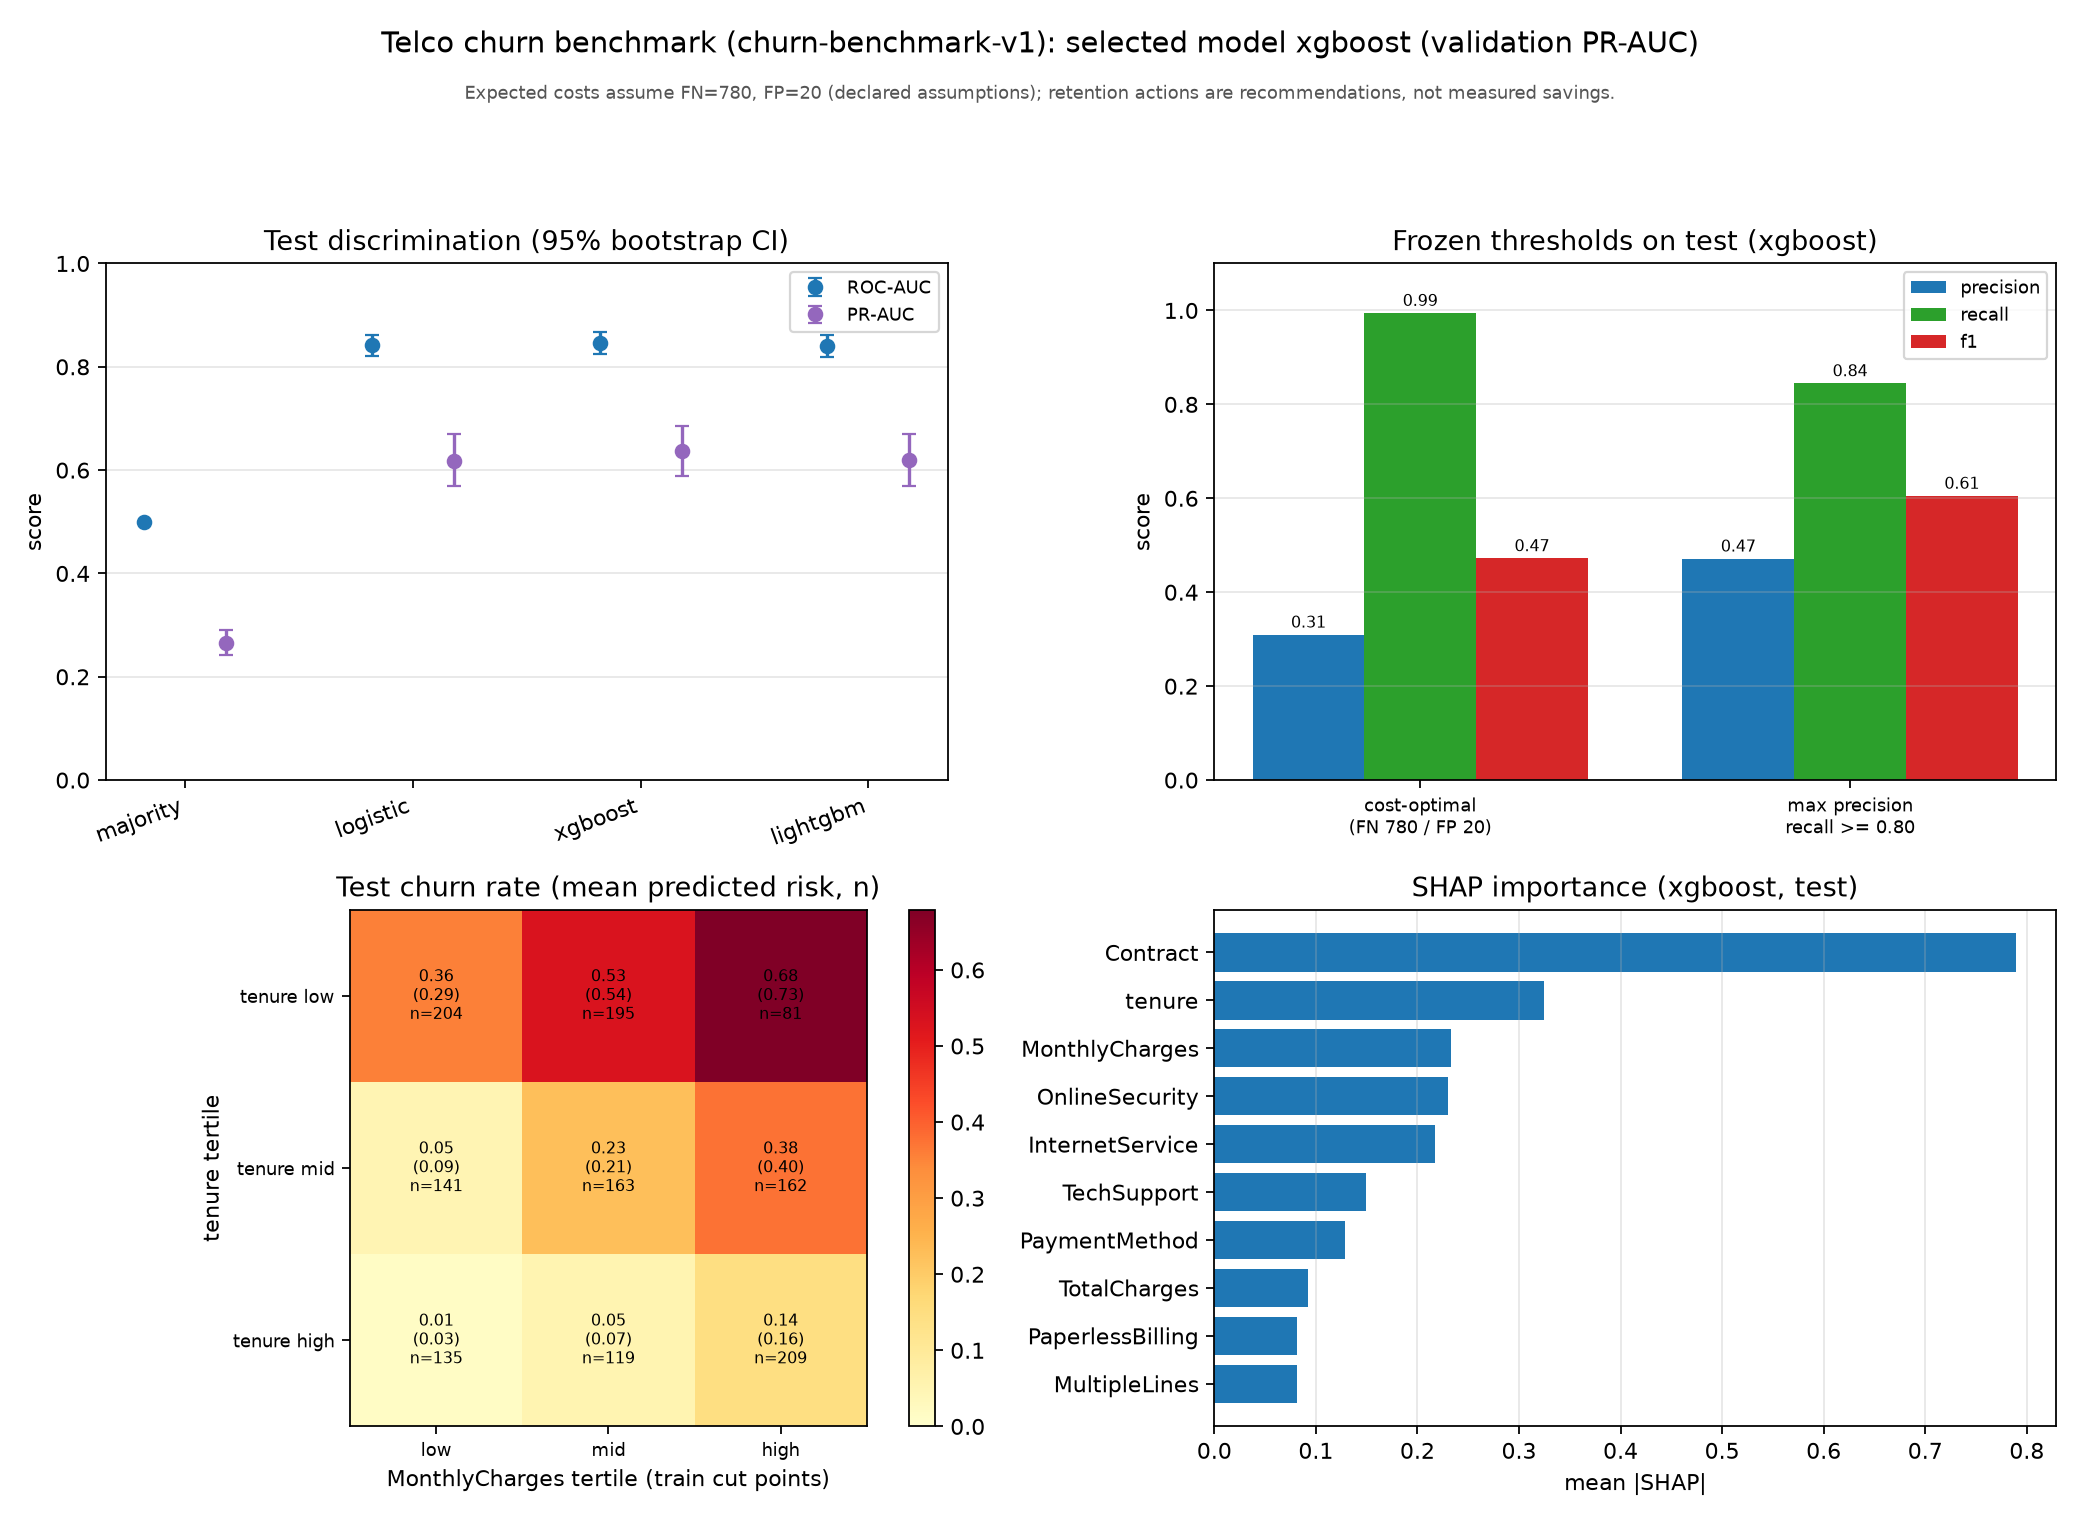
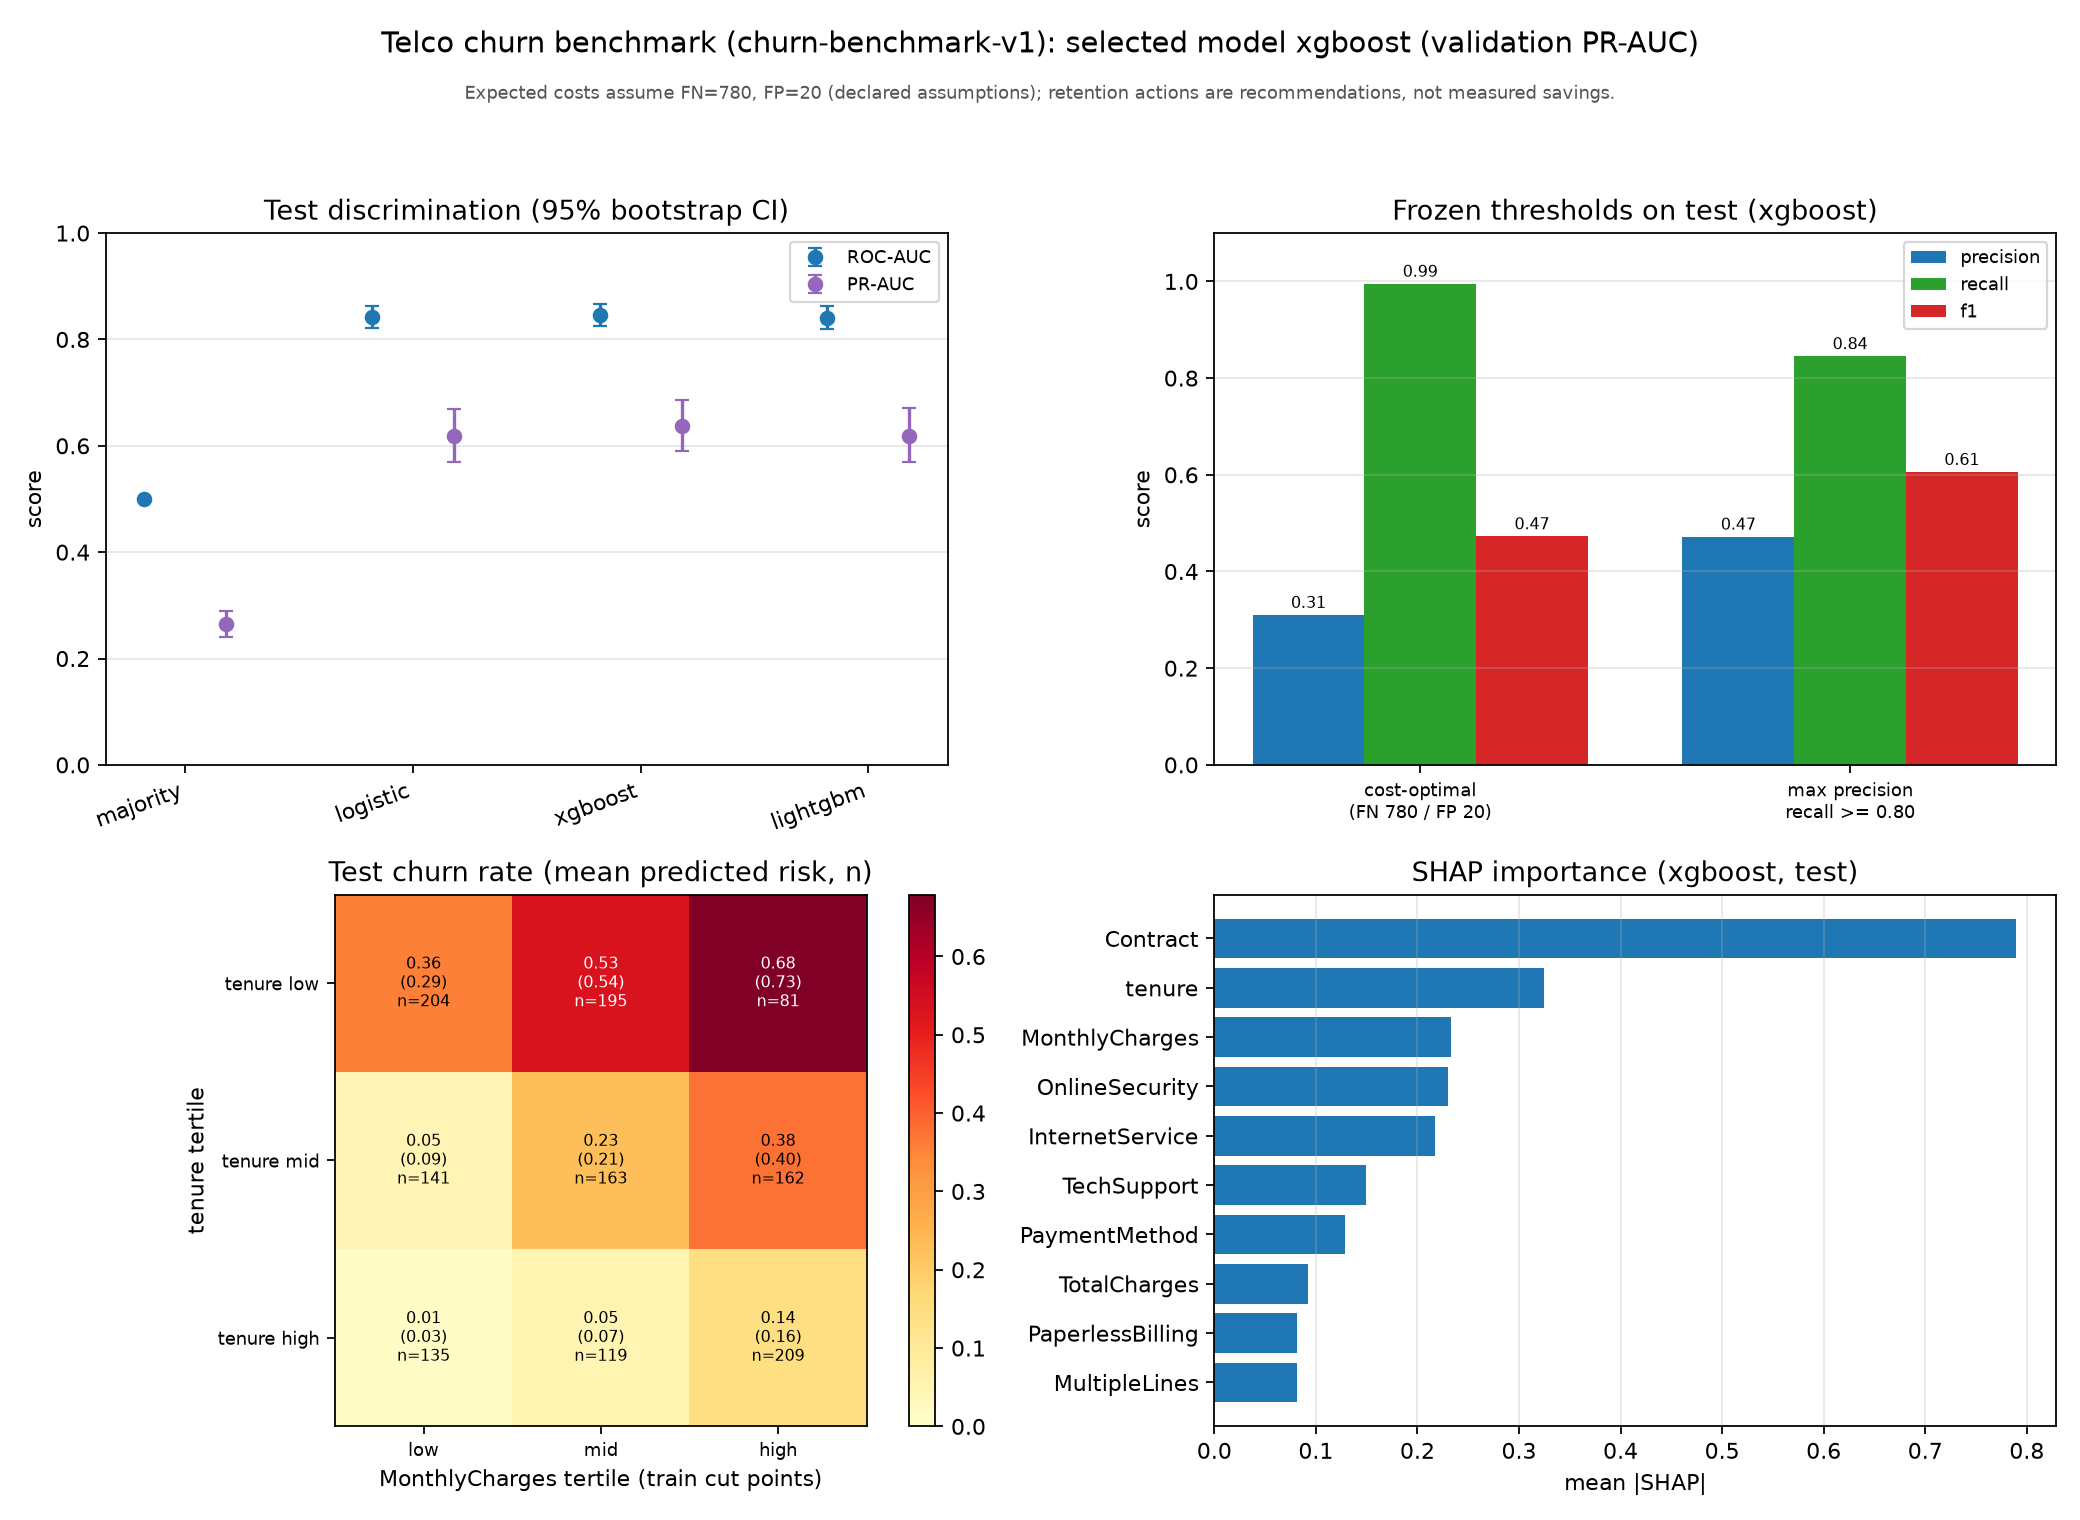
chore(figure): use white labels on dark heatmap cells

diff --git a/scripts/render_figure.py b/scripts/render_figure.py
@@ -135,13 +135,15 @@ def main() -> None:
         grid[i, j] = row["churn_rate"]
         risk[i, j] = row["mean_predicted_risk"]
         counts[i, j] = row["n"]
-    im = ax.imshow(grid, cmap="YlOrRd", vmin=0.0, vmax=max(0.5, float(np.nanmax(grid))))
+    vmax = max(0.5, float(np.nanmax(grid)))
+    im = ax.imshow(grid, cmap="YlOrRd", vmin=0.0, vmax=vmax)
     for i in range(grid.shape[0]):
         for j in range(grid.shape[1]):
             ax.text(
                 j, i,
                 f"{grid[i, j]:.2f}\n({risk[i, j]:.2f})\nn={counts[i, j]}",
                 ha="center", va="center", fontsize=7,
+                color="white" if grid[i, j] > 0.6 * vmax else "black",
             )
     ax.set_xticks(range(len(charge_lv)))
     ax.set_xticklabels(charge_lv, fontsize=8)
@@ -160,7 +162,7 @@ def main() -> None:
     ax.set_title(f"SHAP importance ({sel}, test)")
     ax.grid(axis="x", alpha=0.3)
 
-    fig.tight_layout(rect=[0, 0, 1, 0.90])
+    fig.tight_layout(rect=[0, 0, 1, 0.92])
     fig.savefig(OUT, dpi=160)
 
     figure_data = {
